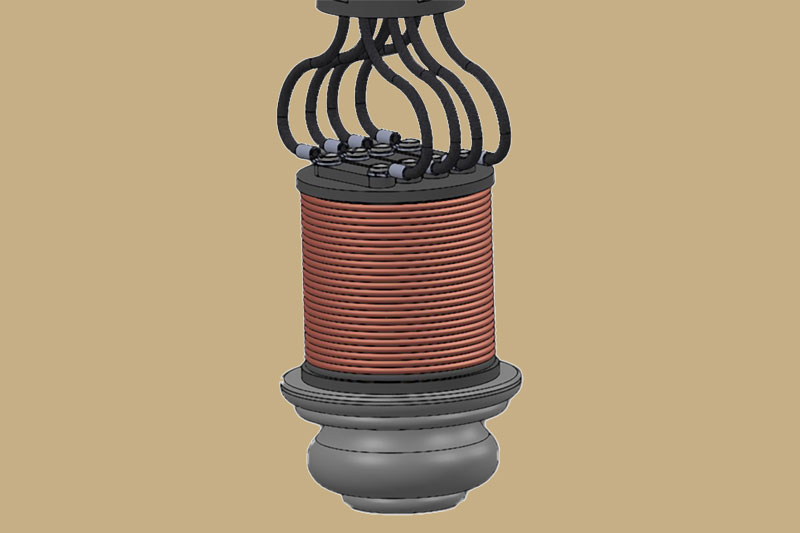
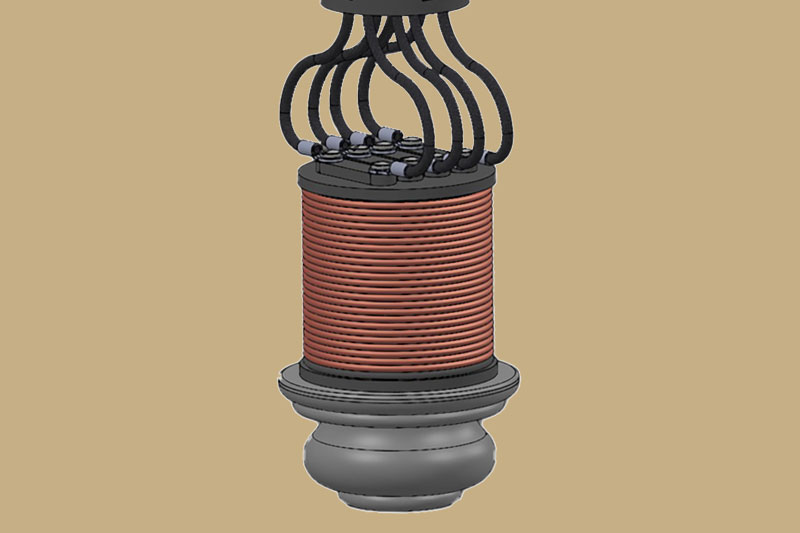
Update battery
Upload new battery figure and update battery.mdto reflect it

Changed region(s): [[0.3438, 0.0, 0.6562, 0.9906], [0.4375, 0.8405, 0.5625, 0.8705], [0.4062, 0.9006, 0.4375, 0.9306]]

diff --git a/_projects/battery.md b/_projects/battery.md
@@ -12,7 +12,7 @@ What would you do with the work extracted by an engine? You could power a refrig
 
 <div class="row">
     <div class="col-sm mt-3 mt-md-0">
-        {% include figure.liquid loading="eager" path="assets/img/component_battery.jpg" title="classical heat engines" class="img-fluid rounded z-depth-1" %}
+        {% include figure.liquid loading="eager" path="assets/img/full_battery.jpg" title="classical heat engines" class="img-fluid rounded z-depth-1" %}
     </div>
 </div>
 <div class="caption">
